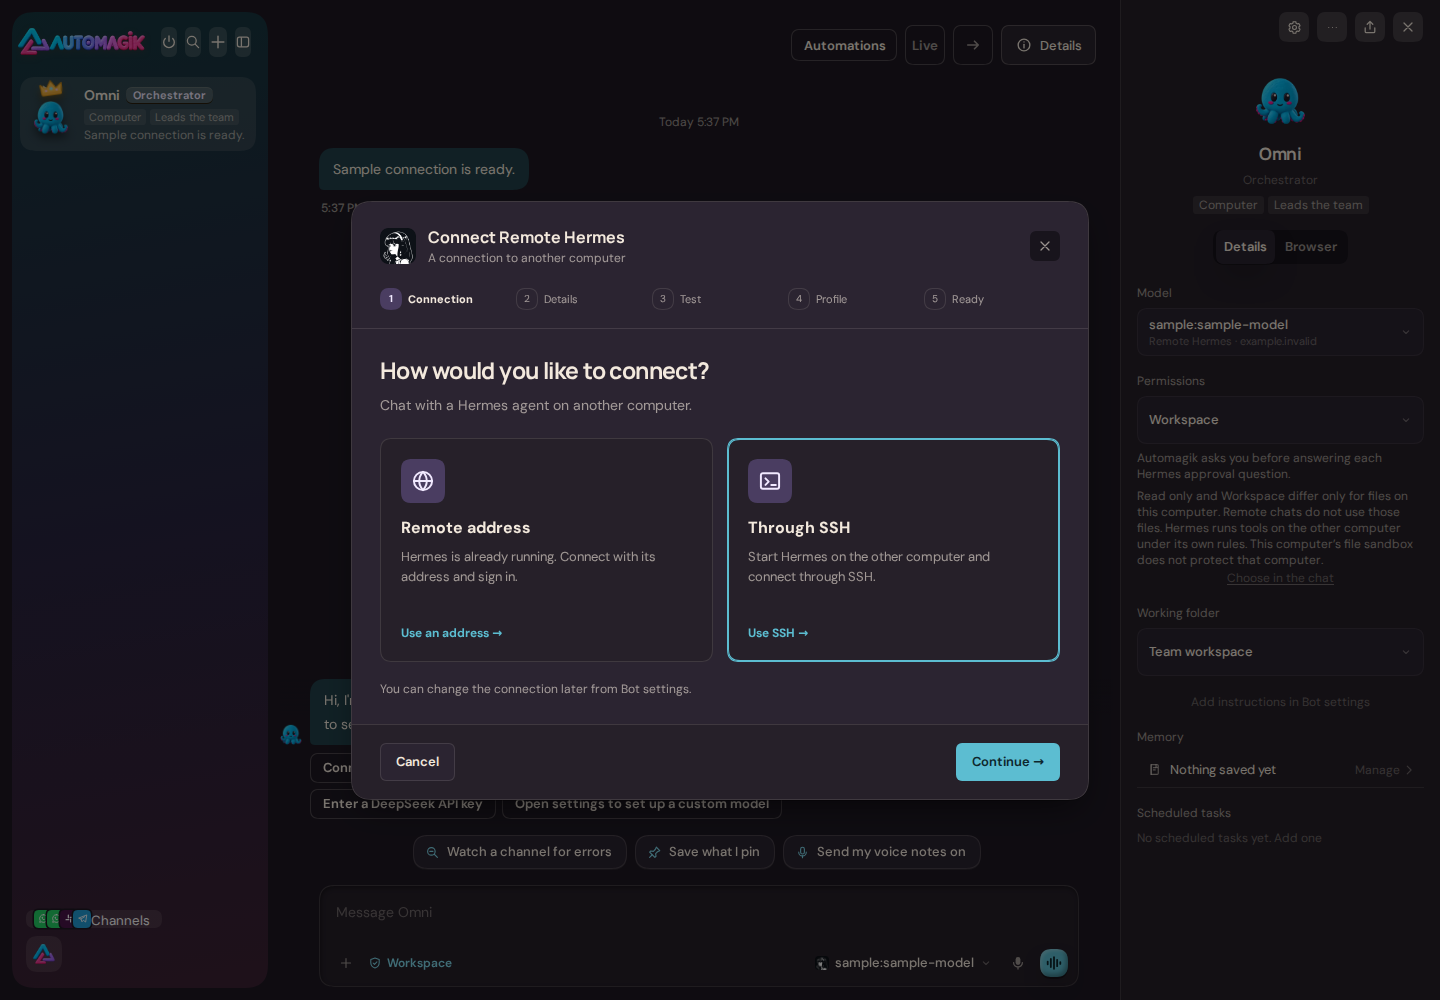
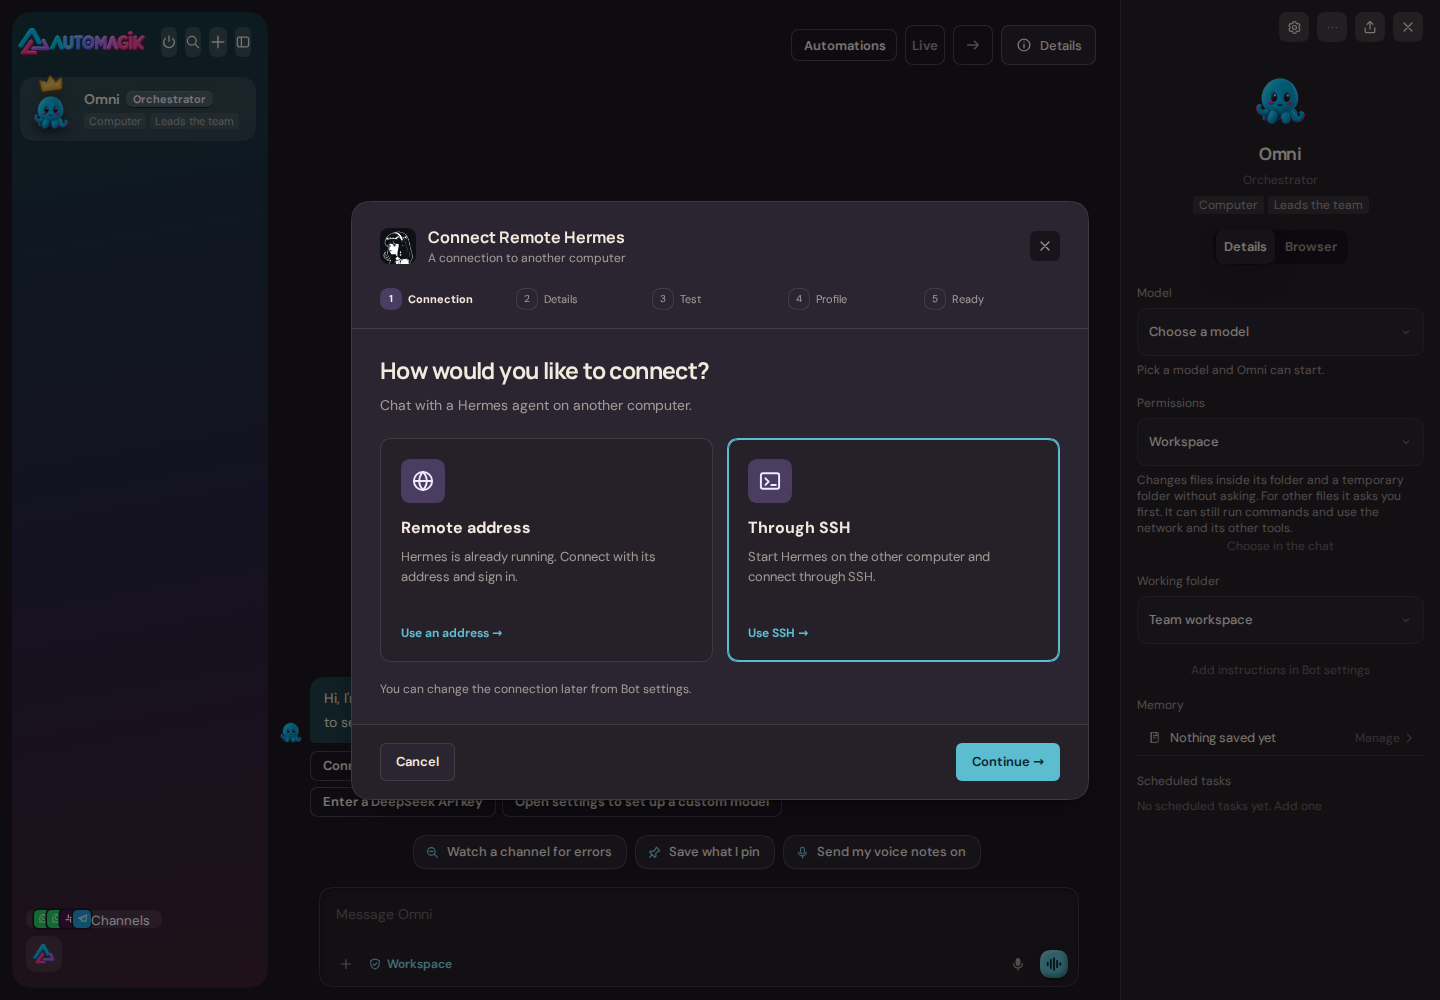
docs(bots): refresh SSH host picker captures
Recapture only Through SSH frames in light and dark with sample aliases.
Record exact source, bundle and retained-image provenance from the isolated app probe.

Refs #1070

diff --git a/docs/pr/1070-shots/README.md b/docs/pr/1070-shots/README.md
@@ -1,14 +1,14 @@
 # Temporary PR 1075 real-app wizard captures
 
-These are the running app's light and dark themes, using the approved Remote Hermes wizard
-and its actual host endpoints. This wording-only round refreshes 23 affected frames: every dark
-frame, plus light 06b, 07 and 04d–04g, where the updated permission text or control is visible.
-The other 11 light frames keep the unchanged images from the prior reviewed capture.
+These are the running app's own light and dark themes with sample data. This round refreshes
+only the 12 Through SSH frames: 02, 03b, and 04d–04g in each theme. The other 22 images retain
+their previously reviewed contents and provenance. Light 02 was recaptured with identical bytes,
+so Git shows 11 changed PNG files for the 12 refreshed frames.
 
-Read only and Workspace both ask before each Hermes approval. Their difference applies only to
-this computer's own files. Full access answers yes once; Auto review does not review Hermes
-questions. The shared remote caveat appears once below each permission surface, and the
-underlined “Choose in the chat” control was exercised through dismiss and reopen in the app.
+The SSH details frame shows searchable configured aliases and the collapsed “Other hosts you
+have connected to” list. Choosing an alias fills the host, user and port; the alias remains the
+connection target. The probe also exercised search, opening the secondary list, choosing a
+previous host, and typing a new host before restoring the shown sample alias.
 
 | State | Light | Dark |
 | --- | --- | --- |
@@ -30,30 +30,38 @@ underlined “Choose in the chat” control was exercised through dismiss and re
 | Later one-click connection | [Light](light-06b-one-click-chat.png) | [Dark](dark-06b-one-click-chat.png) |
 | Bot settings: Remote Hermes | [Light](light-07-settings.png) | [Dark](dark-07-settings.png) |
 
-The approved probe ran `node scripts/boot-check.mjs --keep <scratch>/boot` outside the
-repository, with DSH bound only to loopback and separate empty app homes. Package installation
-used offline caches. Runtime egress was blocked. A disposable in-memory gateway supplied
-source-shaped REST/WebSocket replies, and a fake `ssh` executable supplied the supervisor and
-tunnel states. The reserved example address was never contacted. No real Hermes, SSH client,
-provider account, private reference image or key material was used.
+The approved probe ran `node scripts/boot-check.mjs --keep <scratch>/boot` in isolated scratch
+under `/mnt/ai`, with DSH bound only to loopback and separate app homes. Package installation
+used offline caches; runtime and browser egress were blocked. The real host discovery endpoint
+read fixture SSH files and called a fake `ssh -G`; later connection tests used a fake SSH
+supervisor/tunnel and an in-memory Hermes gateway. No real SSH client, Hermes, account, key
+file or private reference screenshot was used. Sample onboarding was marked complete through
+the existing host API before initial navigation, so the capture needed no page reloads.
 
-The actual wizard exercised dashboard sign-in, profile refresh/pick/save, remembered one-click
-connection, SSH test/cleanup, and actionable auth/host-key failures. Password fields were masked;
-the probe checked that one-use sign-in values were absent from all isolated app-home files.
-The installed client bundle matched the checkout byte for byte (SHA-256):
[1 lines of base64/hex data omitted]
+Fixture size: 14 aliases and 170 known-host records, including 6 hashed records which were
+ignored. The endpoint returned 14 aliases and 164 previous names, with exactly alias, hostname,
+user and port. The probe verified the alias target in the fake SSH argv and checked that
+unselected discovery data and public-key columns were absent from the app's persisted files.
 
-The retained light frames are byte-identical to commit
-`1852fbd855f458b132e79c3676c7adb5abdbffc7`, captured from source
-`7727147d06fc722e68a73bbd31044cc55fa50fe0` with bundle SHA-256
[1 lines of base64/hex data omitted]
-Their native, unconfigured background and wizard content are unchanged by this round.
+The 12 refreshed images were captured from source commit
+`9ab8bda316a06d6e705e3fc6fadb70d5b1824bda`. The installed client matched that checkout byte for
[1 lines of base64/hex data omitted]
+The final boot and capture completed successfully, with no recorded console errors, page
+exceptions or HTTP failures. The owned boot/app process groups and fake SSH processes were
+verified gone afterward. Earlier probe attempts and their diagnostics are retained in scratch.
 
-Viewport: 1440 × 1000; locale: English; the app's own fonts and theme variables. Screenshots
-finish finite menu animations and keep the real app around the wizard. The final boot and capture
-probe exited successfully with no recorded console errors or page exceptions; its owned process
-groups and fake SSH processes were stopped. The retained images keep their earlier provenance
-and are unchanged by this wording round.
+The 22 retained images are byte-identical to commit
+`18c5780538fb661913680699ef68501cad35bb4d`. Their provenance is unchanged:
 
-Keep this folder and `../1070-wizard-mock` for the orchestrator's review before the owner's
-real-app look. Remove both temporary folders only in the later pre-merge commit after review.
+- All 11 non-SSH dark frames, plus light 06b and 07, came from source
+  `3431387d437acd218bcdeb36a179785c171fbb3e`, bundle SHA-256
[1 lines of base64/hex data omitted]
+  `716241f0f05d4923e1d1137793a10122a53e1ced`.
+- The remaining 9 non-SSH light frames came from source
+  `7727147d06fc722e68a73bbd31044cc55fa50fe0`, bundle SHA-256
[1 lines of base64/hex data omitted]
+  `1852fbd855f458b132e79c3676c7adb5abdbffc7`.
+
+Viewport: 1440 × 1000; locale: English; native app fonts and theme variables. These temporary
+images and `../1070-wizard-mock` stay for the orchestrator's review before the owner's look.
+Remove both folders only in the later pre-merge commit after that review. The PR remains draft.
